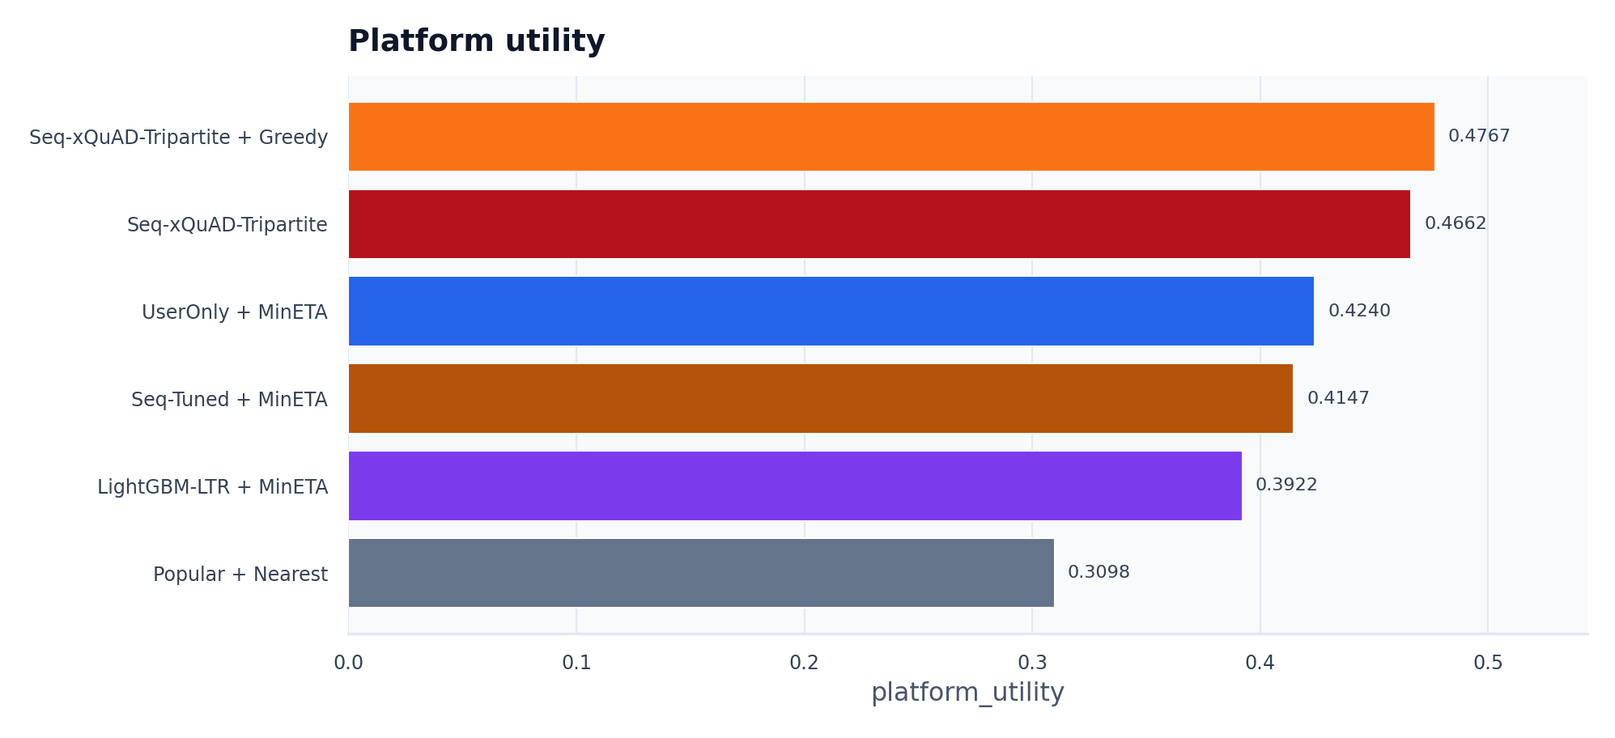
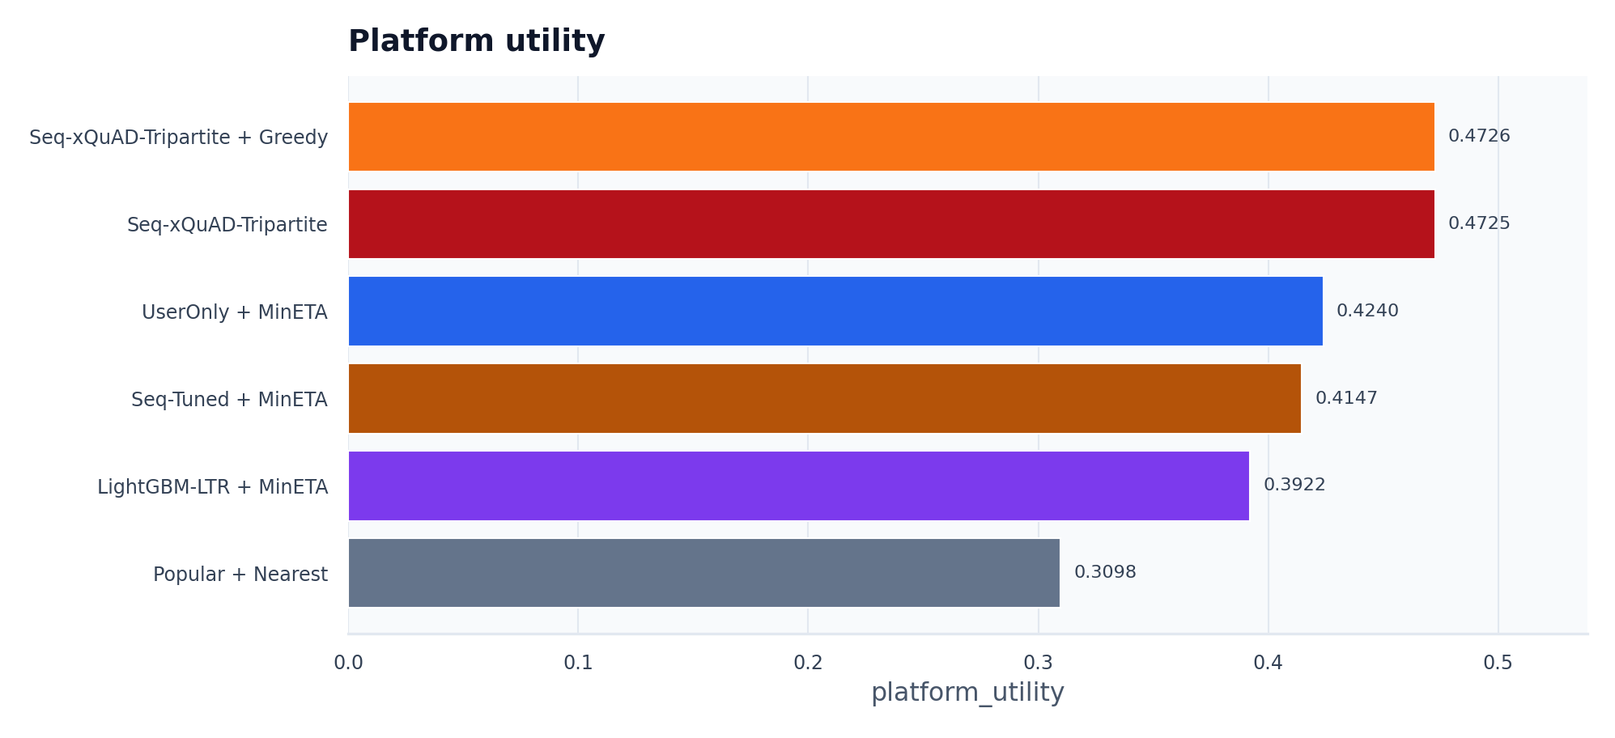
Normalize tripartite scoring components

diff --git a/foodflow/recommenders.py b/foodflow/recommenders.py
@@ -41,6 +41,13 @@ SEQUENCE_FEATURE_NAMES = [
     "quality",
 ]
 
+TRIPARTITE_COMPONENT_NAMES = [
+    "user_score",
+    "merchant_fairness",
+    "eta_score",
+    "supply_score",
+]
+
 
 @dataclass
 class RecommendationResult:
@@ -371,6 +378,33 @@ class SequentialHybridRecommender(UserOnlyRecommender):
         return recs, {m: scores.get(m, float(self.popular.get(m, 0))) for m in recs}
 
 
+def _normalize_tripartite_components(
+    components_by_item: dict[str, dict[str, float]],
+    weights: dict[str, float],
+) -> dict[str, dict[str, float]]:
+    if not components_by_item:
+        return components_by_item
+    frame = pd.DataFrame.from_dict(components_by_item, orient="index")
+    for name in TRIPARTITE_COMPONENT_NAMES:
+        values = pd.to_numeric(frame.get(name, 0.0), errors="coerce").fillna(0.0)
+        lo = float(values.min())
+        hi = float(values.max())
+        if hi - lo <= 1e-12:
+            normalized = pd.Series(np.zeros(len(values)), index=values.index)
+        else:
+            normalized = (values - lo) / (hi - lo)
+        frame[f"{name}_norm"] = normalized.astype(float)
+    weight_sum = max(float(sum(weights.values())), 1e-12)
+    frame["raw_final_score"] = pd.to_numeric(frame.get("final_score", 0.0), errors="coerce").fillna(0.0)
+    frame["final_score"] = sum(
+        float(weight) * frame[f"{name}_norm"] for name, weight in weights.items()
+    ) / weight_sum
+    return {
+        str(index): {key: float(value) for key, value in row.dropna().items()}
+        for index, row in frame.iterrows()
+    }
+
+
 class WeightedSequentialRecommender(SequentialHybridRecommender):
     name = "Seq-Weighted"
 
@@ -622,10 +656,24 @@ class SeqTripartiteRecommender(SequentialHybridRecommender):
             "final_score": final,
         }
 
+    def _component_scores_for_candidates(
+        self,
+        user_id: str,
+        candidates: list[str],
+        period: str = "lunch",
+    ) -> dict[str, dict[str, float]]:
+        components = {merchant_id: self.component_scores(user_id, merchant_id, period) for merchant_id in candidates}
+        weights = {
+            "user_score": self.user_weight,
+            "merchant_fairness": self.fairness_weight,
+            "eta_score": self.eta_weight,
+            "supply_score": self.supply_weight,
+        }
+        return _normalize_tripartite_components(components, weights)
+
     def recommend_for_user(self, user_id: str, k: int, period: str = "lunch") -> tuple[list[str], dict[str, float]]:
-        scores = {}
-        for merchant_id in self._sequential_candidates(user_id):
-            scores[merchant_id] = self.component_scores(user_id, merchant_id, period)["final_score"]
+        components = self._component_scores_for_candidates(user_id, self._sequential_candidates(user_id), period)
+        scores = {merchant_id: values["final_score"] for merchant_id, values in components.items()}
         ranked = sorted(scores, key=scores.get, reverse=True)
         recs = self._remove_seen_and_backfill(user_id, ranked, k)
         return recs, {m: scores[m] for m in recs}
@@ -761,10 +809,8 @@ class SeqXQuadTripartiteRecommender(SeqTripartiteRecommender):
         return selected
 
     def recommend_for_user(self, user_id: str, k: int, period: str = "lunch") -> tuple[list[str], dict[str, float]]:
-        scores = {
-            merchant_id: self.component_scores(user_id, merchant_id, period)["final_score"]
-            for merchant_id in self._sequential_candidates(user_id)
-        }
+        components = self._component_scores_for_candidates(user_id, self._sequential_candidates(user_id), period)
+        scores = {merchant_id: values["final_score"] for merchant_id, values in components.items()}
         recs = self._rerank_xquad(scores, k)
         recs = self._remove_seen_and_backfill(user_id, recs, k)
         return recs, {m: scores.get(m, float(self.popular.get(m, 0))) for m in recs}

diff --git a/foodflow/demo_support.py b/foodflow/demo_support.py
@@ -112,12 +112,15 @@ def build_recommendation_frame(data: PreparedData, model, user_id: str, recs: li
     repeat_counts = Counter(history["wm_poi_id"].astype(str))
     category_profile = user_category_profile(data, user_id, top_n=20)
     category_counts = dict(zip(category_profile["category"].astype(str), category_profile["orders"].astype(int)))
+    normalized_components = {}
+    if hasattr(model, "_component_scores_for_candidates"):
+        normalized_components = model._component_scores_for_candidates(user_id, list(recs), period)
 
     rows = []
     for rank, merchant_id in enumerate(recs, start=1):
         merchant = merchants.loc[merchant_id]
         if hasattr(model, "component_scores"):
-            components = model.component_scores(user_id, merchant_id, period)
+            components = normalized_components.get(merchant_id, model.component_scores(user_id, merchant_id, period))
             user_weight = float(getattr(model, "user_weight", 1.0))
             fairness_weight = float(getattr(model, "fairness_weight", 0.0))
             eta_weight = float(getattr(model, "eta_weight", 0.0))
@@ -187,10 +190,12 @@ def build_recommendation_frame(data: PreparedData, model, user_id: str, recs: li
                 "eta_minutes": float(components["eta_minutes"]),
                 "eta_score": float(components["eta_score"]),
                 "supply": float(components["supply_score"]),
-                "user_contrib": float(user_weight * components["user_score"]),
-                "fairness_contrib": float(fairness_weight * components["merchant_fairness"]),
-                "eta_contrib": float(eta_weight * components["eta_score"]),
-                "supply_contrib": float(supply_weight * components["supply_score"]),
+                "user_contrib": float(user_weight * components.get("user_score_norm", components["user_score"])),
+                "fairness_contrib": float(
+                    fairness_weight * components.get("merchant_fairness_norm", components["merchant_fairness"])
+                ),
+                "eta_contrib": float(eta_weight * components.get("eta_score_norm", components["eta_score"])),
+                "supply_contrib": float(supply_weight * components.get("supply_score_norm", components["supply_score"])),
                 "reason": " / ".join(reasons),
                 "lng": float(merchant.get("lng", 116.40)),
                 "lat": float(merchant.get("lat", 39.92)),

diff --git a/tests/test_metrics.py b/tests/test_metrics.py
@@ -11,6 +11,7 @@ from foodflow.metrics import (
     ndcg_at_k,
     recall_at_k,
 )
+from foodflow.recommenders import _normalize_tripartite_components
 
 
 def test_ranking_metrics():
@@ -101,3 +102,18 @@ def test_tripartite_frontier_marks_dominated_rows():
     frontier = build_tripartite_frontier(offline, simulation)
     assert {"policy", "model", "is_frontier"}.issubset(frontier.columns)
     assert frontier["is_frontier"].any()
+
+
+def test_tripartite_component_normalization():
+    rows = {
+        "m1": {"user_score": 10.0, "merchant_fairness": 0.2, "eta_score": 0.5, "supply_score": 5.0, "final_score": 0.0},
+        "m2": {"user_score": 20.0, "merchant_fairness": 0.8, "eta_score": 0.5, "supply_score": 9.0, "final_score": 0.0},
+    }
+    normalized = _normalize_tripartite_components(
+        rows,
+        {"user_score": 1.0, "merchant_fairness": 1.0, "eta_score": 1.0, "supply_score": 1.0},
+    )
+    assert normalized["m1"]["user_score_norm"] == 0.0
+    assert normalized["m2"]["user_score_norm"] == 1.0
+    assert normalized["m1"]["eta_score_norm"] == 0.0
+    assert normalized["m2"]["final_score"] > normalized["m1"]["final_score"]

diff --git a/foodflow/report.py b/foodflow/report.py
@@ -112,6 +112,8 @@ def build_report(
 
 轻量 KG 解释用于吸收知识图谱路线的可解释性亮点，但不引入高风险图神经网络训练。系统从训练订单、商家品类、商圈/区域和价格段构造 `user-ordered-poi`、`user-prefers-category`、`poi-has-category`、`poi-located-in-area`、`has-price-range` 等路径。`explain-case` 会输出类似 “user -> category <- poi” 的证据路径，并同时保留 ETA、曝光补偿等真实打分字段，避免空泛模板解释。
 
+三方重排的用户分、公平分、ETA 分和供给分在候选集合内做 min-max 归一化后再加权合成，避免不同数值尺度让权重失去解释性。离线表中 `LightGBM-LTR` 更突出覆盖改善和曝光集中度下降；`Seq-xQuAD-Tripartite` 的价值则主要体现在把商家公平、ETA、供给和列表级覆盖纳入排序，并需要结合后续履约仿真判断系统级收益。
+
 ## 4. 离线推荐结果
 
 {offline_table}

diff --git a/ppt/notebooklm/upload_pack/sources/实验报告.md b/ppt/notebooklm/upload_pack/sources/实验报告.md
@@ -35,6 +35,8 @@
 
 轻量 KG 解释用于吸收知识图谱路线的可解释性亮点，但不引入高风险图神经网络训练。系统从训练订单、商家品类、商圈/区域和价格段构造 `user-ordered-poi`、`user-prefers-category`、`poi-has-category`、`poi-located-in-area`、`has-price-range` 等路径。`explain-case` 会输出类似 “user -> category <- poi” 的证据路径，并同时保留 ETA、曝光补偿等真实打分字段，避免空泛模板解释。
 
+三方重排的用户分、公平分、ETA 分和供给分在候选集合内做 min-max 归一化后再加权合成，避免不同数值尺度让权重失去解释性。离线表中 `LightGBM-LTR` 更突出覆盖改善和曝光集中度下降；`Seq-xQuAD-Tripartite` 的价值则主要体现在把商家公平、ETA、供给和列表级覆盖纳入排序，并需要结合后续履约仿真判断系统级收益。
+
 ## 4. 离线推荐结果
 
 | model                |   Recall@10 |   NDCG@10 |   MRR@10 |   HitRate@10 |   Recall@20 |   NDCG@20 |   MRR@20 |   HitRate@20 |   Coverage@20 |   ExposureGini |   LongTailExposure@20 |   CategoryJSD@20 |
@@ -43,7 +45,7 @@
 | LightGBM-LTR         |      0.4142 |    0.3148 |   0.3366 |       0.5733 |      0.4424 |    0.3243 |   0.3378 |       0.59   |        0.4345 |         0.7942 |                0.5513 |           0.0279 |
 | Popular              |      0.0219 |    0.0135 |   0.018  |       0.0467 |      0.047  |    0.021  |   0.0209 |       0.09   |        0.0062 |         0.9952 |                0      |           0.0581 |
 | Seq-Tuned            |      0.4187 |    0.3504 |   0.392  |       0.58   |      0.4675 |    0.3652 |   0.3948 |       0.6267 |        0.2884 |         0.8927 |                0.4371 |           0.0152 |
-| Seq-xQuAD-Tripartite |      0.3964 |    0.3372 |   0.3828 |       0.5567 |      0.418  |    0.344  |   0.3839 |       0.5733 |        0.2847 |         0.8882 |                0.4266 |           0.0158 |
+| Seq-xQuAD-Tripartite |      0.3987 |    0.3379 |   0.3832 |       0.5633 |      0.418  |    0.3439 |   0.3839 |       0.5733 |        0.2823 |         0.8934 |                0.4314 |           0.0157 |
 | UserOnly             |      0.3988 |    0.3336 |   0.373  |       0.5467 |      0.4287 |    0.3423 |   0.3747 |       0.5733 |        0.2841 |         0.8857 |                0.4242 |           0.0156 |
 
 推荐侧指标使用 Recall@K、NDCG@K、MRR@K 和 HitRate@K；商家侧指标使用 Coverage、Long-tail Exposure 和 Exposure Gini；校准侧指标使用 CategoryJSD@20，衡量推荐列表品类分布与用户历史品类分布的 Jensen-Shannon divergence，数值越低越贴近用户习惯。这样既能看推荐是否命中真实下单，也能看曝光是否过度集中，以及列表是否偏离用户长期品类偏好。全量 TRD 结果中，Seq-Tuned 或 LightGBM-LTR 通常代表离线准确率前沿，说明外卖推荐强烈受复购序列和商家转移影响；Seq-xQuAD-Tripartite 的离线准确性可能低于纯用户侧序列模型，但它把商家曝光和履约约束纳入同一条链路，需要结合仿真指标判断系统级收益。
@@ -56,8 +58,8 @@
 | UserOnly + MinETA             | useronly             | min_eta        | greedy            | mnl_softmax    |                 97 |             97 |                   0 |                 1 |   53.4011 |         0.7113 |         0.2887 |           0.6493 |          0.8033 |                   0.9908 |              0.6655 |             0.424  |
 | Seq-Tuned + MinETA            | seq_tuned            | min_eta        | greedy            | mnl_softmax    |                 93 |             93 |                   0 |                 1 |   56.039  |         0.7097 |         0.2903 |           0.6385 |          0.8239 |                   0.9889 |              0.6333 |             0.4147 |
 | LightGBM-LTR + MinETA         | learned_ltr          | min_eta        | greedy            | mnl_softmax    |                 93 |             93 |                   0 |                 1 |   54.8089 |         0.7419 |         0.2581 |           0.6385 |          0.8239 |                   0.9858 |              0.5801 |             0.3922 |
-| Seq-xQuAD-Tripartite + Greedy | seq_xquad_tripartite | load_aware     | greedy            | mnl_softmax    |                 75 |             75 |                   0 |                 1 |   46.8654 |         0.52   |         0.48   |           0.5637 |          0.9018 |                   0.9885 |              0.6847 |             0.4767 |
-| Seq-xQuAD-Tripartite          | seq_xquad_tripartite | load_aware     | batch             | mnl_softmax    |                 92 |             92 |                   0 |                 1 |   48.9809 |         0.5543 |         0.4457 |           0.6549 |          0.8542 |                   0.9893 |              0.6652 |             0.4662 |
+| Seq-xQuAD-Tripartite + Greedy | seq_xquad_tripartite | load_aware     | greedy            | mnl_softmax    |                 75 |             75 |                   0 |                 1 |   46.8196 |         0.5333 |         0.4667 |           0.5637 |          0.9018 |                   0.9892 |              0.6847 |             0.4726 |
+| Seq-xQuAD-Tripartite          | seq_xquad_tripartite | load_aware     | batch             | mnl_softmax    |                 92 |             92 |                   0 |                 1 |   48.4038 |         0.5435 |         0.4565 |           0.642  |          0.8375 |                   0.9899 |              0.6712 |             0.4725 |
 
 履约侧指标包括完成订单数、未分配订单数、平均 ETA、超时率、骑手负载标准差和平台综合效用。多目标推荐的目标不是所有单项指标都最大，而是在准确性、公平性和履约可行性之间取得更适合外卖平台的折中。全量 TRD 仿真中，Seq-Tuned 和 LightGBM-LTR 提升离线推荐准确性，但进入派单后平台效用仍要与 ETA、超时率和骑手负载一起判断；Seq-xQuAD-Tripartite + Greedy 与 Seq-xQuAD-Tripartite 的对比用于说明批量匹配相对逐单贪心的吞吐、ETA 和效用取舍。
 

diff --git a/report/实验报告.md b/report/实验报告.md
@@ -35,6 +35,8 @@
 
 轻量 KG 解释用于吸收知识图谱路线的可解释性亮点，但不引入高风险图神经网络训练。系统从训练订单、商家品类、商圈/区域和价格段构造 `user-ordered-poi`、`user-prefers-category`、`poi-has-category`、`poi-located-in-area`、`has-price-range` 等路径。`explain-case` 会输出类似 “user -> category <- poi” 的证据路径，并同时保留 ETA、曝光补偿等真实打分字段，避免空泛模板解释。
 
+三方重排的用户分、公平分、ETA 分和供给分在候选集合内做 min-max 归一化后再加权合成，避免不同数值尺度让权重失去解释性。离线表中 `LightGBM-LTR` 更突出覆盖改善和曝光集中度下降；`Seq-xQuAD-Tripartite` 的价值则主要体现在把商家公平、ETA、供给和列表级覆盖纳入排序，并需要结合后续履约仿真判断系统级收益。
+
 ## 4. 离线推荐结果
 
 | model                |   Recall@10 |   NDCG@10 |   MRR@10 |   HitRate@10 |   Recall@20 |   NDCG@20 |   MRR@20 |   HitRate@20 |   Coverage@20 |   ExposureGini |   LongTailExposure@20 |   CategoryJSD@20 |
@@ -43,7 +45,7 @@
 | LightGBM-LTR         |      0.4142 |    0.3148 |   0.3366 |       0.5733 |      0.4424 |    0.3243 |   0.3378 |       0.59   |        0.4345 |         0.7942 |                0.5513 |           0.0279 |
 | Popular              |      0.0219 |    0.0135 |   0.018  |       0.0467 |      0.047  |    0.021  |   0.0209 |       0.09   |        0.0062 |         0.9952 |                0      |           0.0581 |
 | Seq-Tuned            |      0.4187 |    0.3504 |   0.392  |       0.58   |      0.4675 |    0.3652 |   0.3948 |       0.6267 |        0.2884 |         0.8927 |                0.4371 |           0.0152 |
-| Seq-xQuAD-Tripartite |      0.3964 |    0.3372 |   0.3828 |       0.5567 |      0.418  |    0.344  |   0.3839 |       0.5733 |        0.2847 |         0.8882 |                0.4266 |           0.0158 |
+| Seq-xQuAD-Tripartite |      0.3987 |    0.3379 |   0.3832 |       0.5633 |      0.418  |    0.3439 |   0.3839 |       0.5733 |        0.2823 |         0.8934 |                0.4314 |           0.0157 |
 | UserOnly             |      0.3988 |    0.3336 |   0.373  |       0.5467 |      0.4287 |    0.3423 |   0.3747 |       0.5733 |        0.2841 |         0.8857 |                0.4242 |           0.0156 |
 
 推荐侧指标使用 Recall@K、NDCG@K、MRR@K 和 HitRate@K；商家侧指标使用 Coverage、Long-tail Exposure 和 Exposure Gini；校准侧指标使用 CategoryJSD@20，衡量推荐列表品类分布与用户历史品类分布的 Jensen-Shannon divergence，数值越低越贴近用户习惯。这样既能看推荐是否命中真实下单，也能看曝光是否过度集中，以及列表是否偏离用户长期品类偏好。全量 TRD 结果中，Seq-Tuned 或 LightGBM-LTR 通常代表离线准确率前沿，说明外卖推荐强烈受复购序列和商家转移影响；Seq-xQuAD-Tripartite 的离线准确性可能低于纯用户侧序列模型，但它把商家曝光和履约约束纳入同一条链路，需要结合仿真指标判断系统级收益。
@@ -56,8 +58,8 @@
 | UserOnly + MinETA             | useronly             | min_eta        | greedy            | mnl_softmax    |                 97 |             97 |                   0 |                 1 |   53.4011 |         0.7113 |         0.2887 |           0.6493 |          0.8033 |                   0.9908 |              0.6655 |             0.424  |
 | Seq-Tuned + MinETA            | seq_tuned            | min_eta        | greedy            | mnl_softmax    |                 93 |             93 |                   0 |                 1 |   56.039  |         0.7097 |         0.2903 |           0.6385 |          0.8239 |                   0.9889 |              0.6333 |             0.4147 |
 | LightGBM-LTR + MinETA         | learned_ltr          | min_eta        | greedy            | mnl_softmax    |                 93 |             93 |                   0 |                 1 |   54.8089 |         0.7419 |         0.2581 |           0.6385 |          0.8239 |                   0.9858 |              0.5801 |             0.3922 |
-| Seq-xQuAD-Tripartite + Greedy | seq_xquad_tripartite | load_aware     | greedy            | mnl_softmax    |                 75 |             75 |                   0 |                 1 |   46.8654 |         0.52   |         0.48   |           0.5637 |          0.9018 |                   0.9885 |              0.6847 |             0.4767 |
-| Seq-xQuAD-Tripartite          | seq_xquad_tripartite | load_aware     | batch             | mnl_softmax    |                 92 |             92 |                   0 |                 1 |   48.9809 |         0.5543 |         0.4457 |           0.6549 |          0.8542 |                   0.9893 |              0.6652 |             0.4662 |
+| Seq-xQuAD-Tripartite + Greedy | seq_xquad_tripartite | load_aware     | greedy            | mnl_softmax    |                 75 |             75 |                   0 |                 1 |   46.8196 |         0.5333 |         0.4667 |           0.5637 |          0.9018 |                   0.9892 |              0.6847 |             0.4726 |
+| Seq-xQuAD-Tripartite          | seq_xquad_tripartite | load_aware     | batch             | mnl_softmax    |                 92 |             92 |                   0 |                 1 |   48.4038 |         0.5435 |         0.4565 |           0.642  |          0.8375 |                   0.9899 |              0.6712 |             0.4725 |
 
 履约侧指标包括完成订单数、未分配订单数、平均 ETA、超时率、骑手负载标准差和平台综合效用。多目标推荐的目标不是所有单项指标都最大，而是在准确性、公平性和履约可行性之间取得更适合外卖平台的折中。全量 TRD 仿真中，Seq-Tuned 和 LightGBM-LTR 提升离线推荐准确性，但进入派单后平台效用仍要与 ETA、超时率和骑手负载一起判断；Seq-xQuAD-Tripartite + Greedy 与 Seq-xQuAD-Tripartite 的对比用于说明批量匹配相对逐单贪心的吞吐、ETA 和效用取舍。
 

diff --git a/ppt/notebooklm/source_pack.md b/ppt/notebooklm/source_pack.md
@@ -142,7 +142,7 @@ score = user_preference
 - `Seq-Tuned` 是离线命中最强策略，Recall@20 = `0.4675`，NDCG@20 = `0.3652`，HitRate@20 = `0.6267`。
 - `UserOnly` Recall@20 = `0.4287`，NDCG@20 = `0.3423`，说明用户画像特征已经明显优于热门基线。
 - `LightGBM-LTR` Recall@20 = `0.4424`，Coverage@20 = `0.4345`，Exposure Gini = `0.7942`，说明学习排序进入默认评估并改善覆盖/曝光集中度。
-- `Seq-xQuAD-Tripartite` Recall@20 = `0.4180`，NDCG@20 = `0.3440`，不是追求单一 Recall 最大，而是在准确性、商家曝光和履约之间折中。
+- `Seq-xQuAD-Tripartite` Recall@20 = `0.4180`，NDCG@20 = `0.3439`，Coverage@20 = `0.2823`，Exposure Gini = `0.8934`，说明归一化三方重排不是追求单一 Recall 最大，而是在准确性、商家公平和履约之间折中。
 - `BPR-MF` 和 `Popular` 用于证明传统基线和朴素热度基线的差距。
 
 因为三方策略还要考虑商家公平和履约，不能只用 Recall 判断优劣。
@@ -157,15 +157,15 @@ score = user_preference
 - `UserOnly + MinETA`：Avg ETA = `53.40`，Timeout Rate = `0.7113`，Utility = `0.4240`。
 - `Seq-Tuned + MinETA`：Avg ETA = `56.04`，Timeout Rate = `0.7097`，Utility = `0.4147`。
 - `LightGBM-LTR + MinETA`：Avg ETA = `54.81`，Timeout Rate = `0.7419`，Utility = `0.3922`。
-- `Seq-xQuAD-Tripartite + Greedy`：Avg ETA = `46.87`，Timeout Rate = `0.5200`，Utility = `0.4767`。
-- `Seq-xQuAD-Tripartite`：Avg ETA = `48.98`，Timeout Rate = `0.5543`，Utility = `0.4662`。
+- `Seq-xQuAD-Tripartite + Greedy`：Avg ETA = `46.82`，Timeout Rate = `0.5333`，Utility = `0.4726`。
+- `Seq-xQuAD-Tripartite`：Avg ETA = `48.40`，Timeout Rate = `0.5435`，Utility = `0.4725`。
 
 结果分析：
 
 - 只看热门推荐和最近骑手会造成较高 ETA 和超时率。
 - `UserOnly + MinETA` 显著降低 ETA，说明订单推荐给骑手时需要考虑 ETA。
 - `Seq-xQuAD-Tripartite + Greedy` 平均 ETA 最低、超时率最低、平台综合效用最高。
-- 批量匹配版 `Seq-xQuAD-Tripartite` 完成订单更多，但 ETA 和效用相对逐单贪心有取舍。
+- 批量匹配版 `Seq-xQuAD-Tripartite` 完成订单更多，但 ETA、超时率和效用相对逐单贪心有取舍。
 - 因此项目结论不是“单一模型在所有指标上最大”，而是“多方重排把准确率、履约效率、订单吞吐和平台效用放进同一套权衡”。
 
 ## 10. 平台效用定义

diff --git a/ppt/notebooklm/upload_pack/prompts/source_pack.md b/ppt/notebooklm/upload_pack/prompts/source_pack.md
@@ -142,7 +142,7 @@ score = user_preference
 - `Seq-Tuned` 是离线命中最强策略，Recall@20 = `0.4675`，NDCG@20 = `0.3652`，HitRate@20 = `0.6267`。
 - `UserOnly` Recall@20 = `0.4287`，NDCG@20 = `0.3423`，说明用户画像特征已经明显优于热门基线。
 - `LightGBM-LTR` Recall@20 = `0.4424`，Coverage@20 = `0.4345`，Exposure Gini = `0.7942`，说明学习排序进入默认评估并改善覆盖/曝光集中度。
-- `Seq-xQuAD-Tripartite` Recall@20 = `0.4180`，NDCG@20 = `0.3440`，不是追求单一 Recall 最大，而是在准确性、商家曝光和履约之间折中。
+- `Seq-xQuAD-Tripartite` Recall@20 = `0.4180`，NDCG@20 = `0.3439`，Coverage@20 = `0.2823`，Exposure Gini = `0.8934`，说明归一化三方重排不是追求单一 Recall 最大，而是在准确性、商家公平和履约之间折中。
 - `BPR-MF` 和 `Popular` 用于证明传统基线和朴素热度基线的差距。
 
 因为三方策略还要考虑商家公平和履约，不能只用 Recall 判断优劣。
@@ -157,15 +157,15 @@ score = user_preference
 - `UserOnly + MinETA`：Avg ETA = `53.40`，Timeout Rate = `0.7113`，Utility = `0.4240`。
 - `Seq-Tuned + MinETA`：Avg ETA = `56.04`，Timeout Rate = `0.7097`，Utility = `0.4147`。
 - `LightGBM-LTR + MinETA`：Avg ETA = `54.81`，Timeout Rate = `0.7419`，Utility = `0.3922`。
-- `Seq-xQuAD-Tripartite + Greedy`：Avg ETA = `46.87`，Timeout Rate = `0.5200`，Utility = `0.4767`。
-- `Seq-xQuAD-Tripartite`：Avg ETA = `48.98`，Timeout Rate = `0.5543`，Utility = `0.4662`。
+- `Seq-xQuAD-Tripartite + Greedy`：Avg ETA = `46.82`，Timeout Rate = `0.5333`，Utility = `0.4726`。
+- `Seq-xQuAD-Tripartite`：Avg ETA = `48.40`，Timeout Rate = `0.5435`，Utility = `0.4725`。
 
 结果分析：
 
 - 只看热门推荐和最近骑手会造成较高 ETA 和超时率。
 - `UserOnly + MinETA` 显著降低 ETA，说明订单推荐给骑手时需要考虑 ETA。
 - `Seq-xQuAD-Tripartite + Greedy` 平均 ETA 最低、超时率最低、平台综合效用最高。
-- 批量匹配版 `Seq-xQuAD-Tripartite` 完成订单更多，但 ETA 和效用相对逐单贪心有取舍。
+- 批量匹配版 `Seq-xQuAD-Tripartite` 完成订单更多，但 ETA、超时率和效用相对逐单贪心有取舍。
 - 因此项目结论不是“单一模型在所有指标上最大”，而是“多方重排把准确率、履约效率、订单吞吐和平台效用放进同一套权衡”。
 
 ## 10. 平台效用定义

diff --git a/ppt/notebooklm/slide_by_slide_prompt.md b/ppt/notebooklm/slide_by_slide_prompt.md
@@ -139,7 +139,7 @@ list_score = relevance + category_coverage + long_tail_gain
 
 - Seq-Tuned Recall@20 = 0.4675，NDCG@20 = 0.3652，HitRate@20 = 0.6267
 - UserOnly Recall@20 = 0.4287，NDCG@20 = 0.3423
-- Seq-xQuAD-Tripartite Recall@20 = 0.4180，NDCG@20 = 0.3440
+- Seq-xQuAD-Tripartite Recall@20 = 0.4180，Coverage@20 = 0.2823，Exposure Gini = 0.8934
 - BPR-MF Recall@20 = 0.1620，Popular Recall@20 = 0.0470
 - Seq-xQuAD-Tripartite 不是追求单一 Recall 最大，而是在准确性、公平性和履约之间折中
 
@@ -197,8 +197,8 @@ list_score = relevance + category_coverage + long_tail_gain
 - UserOnly + MinETA：Avg ETA = 53.40，Timeout Rate = 0.7113，Utility = 0.4240
 - Seq-Tuned + MinETA：Avg ETA = 56.04，Timeout Rate = 0.7097，Utility = 0.4147
 - LightGBM-LTR + MinETA：Avg ETA = 54.81，Timeout Rate = 0.7419，Utility = 0.3922
-- Seq-xQuAD-Tripartite + Greedy：Avg ETA = 46.87，Timeout Rate = 0.5200，Utility = 0.4767
-- Seq-xQuAD-Tripartite：Avg ETA = 48.98，Timeout Rate = 0.5543，Utility = 0.4662
+- Seq-xQuAD-Tripartite + Greedy：Avg ETA = 46.82，Timeout Rate = 0.5333，Utility = 0.4726
+- Seq-xQuAD-Tripartite：Avg ETA = 48.40，Timeout Rate = 0.5435，Utility = 0.4725
 - Pareto 视角：Seq-Tuned 是离线准确率前沿，三方履约策略是系统效用前沿
 
 视觉布局：
@@ -206,7 +206,7 @@ list_score = relevance + category_coverage + long_tail_gain
 - 上方放两个主图：平均 ETA、平台效用。
 - 右侧或下方补 `pareto_recall_utility.png`，展示准确性与平台效用前沿。
 - 下方放小表格，列出六条策略的 ETA、超时率、效用。
-- 用正式红突出 Seq-xQuAD-Tripartite + Greedy 的 `0.4767`，并标注批量匹配版完成订单更多但效用略低。
+- 用正式红突出 Seq-xQuAD-Tripartite + Greedy 的 `0.4726`，并标注批量匹配版完成订单更多但效用几乎持平。
 
 演讲备注：
 
@@ -252,7 +252,7 @@ list_score = relevance + category_coverage + long_tail_gain
 
 - 上方三个结论卡片。
 - 下方一个“局限与后续”横条。
-- 右侧放关键数字摘要：Seq-Tuned Recall@20 0.4675、LightGBM-LTR Coverage@20 0.4345、Seq-xQuAD-Tripartite + Greedy Avg ETA 46.87、Utility 0.4767。
+- 右侧放关键数字摘要：Seq-Tuned Recall@20 0.4675、LightGBM-LTR Coverage@20 0.4345、Seq-xQuAD-Tripartite + Greedy Avg ETA 46.82、Utility 0.4726。
 
 演讲备注：
 

diff --git a/ppt/notebooklm/upload_pack/prompts/slide_by_slide_prompt.md b/ppt/notebooklm/upload_pack/prompts/slide_by_slide_prompt.md
@@ -139,7 +139,7 @@ list_score = relevance + category_coverage + long_tail_gain
 
 - Seq-Tuned Recall@20 = 0.4675，NDCG@20 = 0.3652，HitRate@20 = 0.6267
 - UserOnly Recall@20 = 0.4287，NDCG@20 = 0.3423
-- Seq-xQuAD-Tripartite Recall@20 = 0.4180，NDCG@20 = 0.3440
+- Seq-xQuAD-Tripartite Recall@20 = 0.4180，Coverage@20 = 0.2823，Exposure Gini = 0.8934
 - BPR-MF Recall@20 = 0.1620，Popular Recall@20 = 0.0470
 - Seq-xQuAD-Tripartite 不是追求单一 Recall 最大，而是在准确性、公平性和履约之间折中
 
@@ -197,8 +197,8 @@ list_score = relevance + category_coverage + long_tail_gain
 - UserOnly + MinETA：Avg ETA = 53.40，Timeout Rate = 0.7113，Utility = 0.4240
 - Seq-Tuned + MinETA：Avg ETA = 56.04，Timeout Rate = 0.7097，Utility = 0.4147
 - LightGBM-LTR + MinETA：Avg ETA = 54.81，Timeout Rate = 0.7419，Utility = 0.3922
-- Seq-xQuAD-Tripartite + Greedy：Avg ETA = 46.87，Timeout Rate = 0.5200，Utility = 0.4767
-- Seq-xQuAD-Tripartite：Avg ETA = 48.98，Timeout Rate = 0.5543，Utility = 0.4662
+- Seq-xQuAD-Tripartite + Greedy：Avg ETA = 46.82，Timeout Rate = 0.5333，Utility = 0.4726
+- Seq-xQuAD-Tripartite：Avg ETA = 48.40，Timeout Rate = 0.5435，Utility = 0.4725
 - Pareto 视角：Seq-Tuned 是离线准确率前沿，三方履约策略是系统效用前沿
 
 视觉布局：
@@ -206,7 +206,7 @@ list_score = relevance + category_coverage + long_tail_gain
 - 上方放两个主图：平均 ETA、平台效用。
 - 右侧或下方补 `pareto_recall_utility.png`，展示准确性与平台效用前沿。
 - 下方放小表格，列出六条策略的 ETA、超时率、效用。
-- 用正式红突出 Seq-xQuAD-Tripartite + Greedy 的 `0.4767`，并标注批量匹配版完成订单更多但效用略低。
+- 用正式红突出 Seq-xQuAD-Tripartite + Greedy 的 `0.4726`，并标注批量匹配版完成订单更多但效用几乎持平。
 
 演讲备注：
 
@@ -252,7 +252,7 @@ list_score = relevance + category_coverage + long_tail_gain
 
 - 上方三个结论卡片。
 - 下方一个“局限与后续”横条。
-- 右侧放关键数字摘要：Seq-Tuned Recall@20 0.4675、LightGBM-LTR Coverage@20 0.4345、Seq-xQuAD-Tripartite + Greedy Avg ETA 46.87、Utility 0.4767。
+- 右侧放关键数字摘要：Seq-Tuned Recall@20 0.4675、LightGBM-LTR Coverage@20 0.4345、Seq-xQuAD-Tripartite + Greedy Avg ETA 46.82、Utility 0.4726。
 
 演讲备注：
 

diff --git a/README.md b/README.md
@@ -231,7 +231,7 @@ python3 scripts/prepare_notebooklm_pack.py
 
 当前提交的结果已经使用完整 TRD `orders_train.txt`，数据审计显示原始训练订单 `1,068,495` 条，处理后训练订单 `1,068,495` 条，训练订单使用比例 `1.0000`。
 
-离线推荐中，`Seq-Tuned` 的 Recall@20 最高，为 `0.4675`，NDCG@20 为 `0.3652`，HitRate@20 为 `0.6267`。`LightGBM-LTR` 的 Recall@20 为 `0.4424`，并把 Coverage@20 提升到 `0.4345`、Exposure Gini 降到 `0.7942`。`Seq-xQuAD-Tripartite` 的离线准确性低于纯用户侧序列模型，但能进入后续履约链路做系统级比较。
+离线推荐中，`Seq-Tuned` 的 Recall@20 最高，为 `0.4675`，NDCG@20 为 `0.3652`，HitRate@20 为 `0.6267`。`LightGBM-LTR` 的 Recall@20 为 `0.4424`，Coverage@20 为 `0.4345`，Exposure Gini 降到 `0.7942`，说明默认评估中已经包含真正训练出来的学习排序。归一化后的 `Seq-xQuAD-Tripartite` 的 Recall@20 为 `0.4180`，NDCG@20 为 `0.3439`，把商家公平、ETA、供给分和列表级覆盖纳入同一套重排。
 
 动态履约仿真中，`Seq-xQuAD-Tripartite + Greedy` 取得最低平均 ETA、最低超时率和最高平台综合效用；批量匹配版本完成订单更多，但 ETA 和平台效用相对逐单贪心有取舍：
 
@@ -241,10 +241,10 @@ python3 scripts/prepare_notebooklm_pack.py
 | UserOnly + MinETA | 53.40 | 0.7113 | 0.4240 |
 | Seq-Tuned + MinETA | 56.04 | 0.7097 | 0.4147 |
 | LightGBM-LTR + MinETA | 54.81 | 0.7419 | 0.3922 |
-| Seq-xQuAD-Tripartite + Greedy | 46.87 | 0.5200 | 0.4767 |
-| Seq-xQuAD-Tripartite | 48.98 | 0.5543 | 0.4662 |
+| Seq-xQuAD-Tripartite + Greedy | 46.82 | 0.5333 | 0.4726 |
+| Seq-xQuAD-Tripartite | 48.40 | 0.5435 | 0.4725 |
 
-结论不是“单一模型在所有指标上最优”，而是：`Seq-Tuned` 取得最强离线推荐准确性；`LightGBM-LTR` 带来更高覆盖和更低曝光集中度；`Seq-xQuAD-Tripartite` 牺牲一部分离线准确性，把 ETA、超时率、订单吞吐和平台效用纳入同一套系统级权衡。
+结论不是“单一模型在所有指标上最优”，而是：`Seq-Tuned` 取得最强离线推荐准确性；`LightGBM-LTR` 展示学习排序和覆盖改善；`Seq-xQuAD-Tripartite` 牺牲一部分离线准确性，把商家公平、ETA、超时率、订单吞吐和平台效用纳入同一套系统级权衡。
 
 ## 图表示例
 

diff --git a/ppt/notebooklm/notebooklm_master_prompt.md b/ppt/notebooklm/notebooklm_master_prompt.md
@@ -45,7 +45,7 @@
 - `UserOnly`：Recall@20 = `0.4287`，NDCG@20 = `0.3423`，HitRate@20 = `0.5733`。
 - `Seq-Tuned`：Recall@20 = `0.4675`，NDCG@20 = `0.3652`，HitRate@20 = `0.6267`。
 - `LightGBM-LTR`：Recall@20 = `0.4424`，NDCG@20 = `0.3243`，HitRate@20 = `0.5900`，Coverage@20 = `0.4345`，Exposure Gini = `0.7942`。
-- `Seq-xQuAD-Tripartite`：Recall@20 = `0.4180`，NDCG@20 = `0.3440`，HitRate@20 = `0.5733`。
+- `Seq-xQuAD-Tripartite`：Recall@20 = `0.4180`，NDCG@20 = `0.3439`，HitRate@20 = `0.5733`，Coverage@20 = `0.2823`，Exposure Gini = `0.8934`。
 - `BPR-MF`：Recall@20 = `0.1620`，NDCG@20 = `0.1068`，HitRate@20 = `0.2433`。
 - `Popular`：Recall@20 = `0.0470`，NDCG@20 = `0.0210`，HitRate@20 = `0.0900`。
 
@@ -55,10 +55,10 @@
 - `UserOnly + MinETA`：Avg ETA = `53.40`，Timeout Rate = `0.7113`，Platform Utility = `0.4240`。
 - `Seq-Tuned + MinETA`：Avg ETA = `56.04`，Timeout Rate = `0.7097`，Platform Utility = `0.4147`。
 - `LightGBM-LTR + MinETA`：Avg ETA = `54.81`，Timeout Rate = `0.7419`，Platform Utility = `0.3922`。
-- `Seq-xQuAD-Tripartite + Greedy`：Avg ETA = `46.87`，Timeout Rate = `0.5200`，Platform Utility = `0.4767`。
-- `Seq-xQuAD-Tripartite`：Avg ETA = `48.98`，Timeout Rate = `0.5543`，Platform Utility = `0.4662`。
+- `Seq-xQuAD-Tripartite + Greedy`：Avg ETA = `46.82`，Timeout Rate = `0.5333`，Platform Utility = `0.4726`。
+- `Seq-xQuAD-Tripartite`：Avg ETA = `48.40`，Timeout Rate = `0.5435`，Platform Utility = `0.4725`。
 
-结论必须表达为：Seq-Tuned 是离线推荐指标最强策略；LightGBM-LTR 展示学习排序和覆盖改善；Seq-xQuAD-Tripartite 牺牲一部分离线准确性，把履约效率、超时风险、订单吞吐和平台综合效用纳入同一套系统级权衡。
+结论必须表达为：Seq-Tuned 是离线推荐指标最强策略；LightGBM-LTR 展示学习排序和覆盖改善；Seq-xQuAD-Tripartite 牺牲一部分离线准确性，把商家公平、履约效率、超时风险、订单吞吐和平台综合效用纳入同一套系统级权衡。
 
 ## 视觉风格
 
